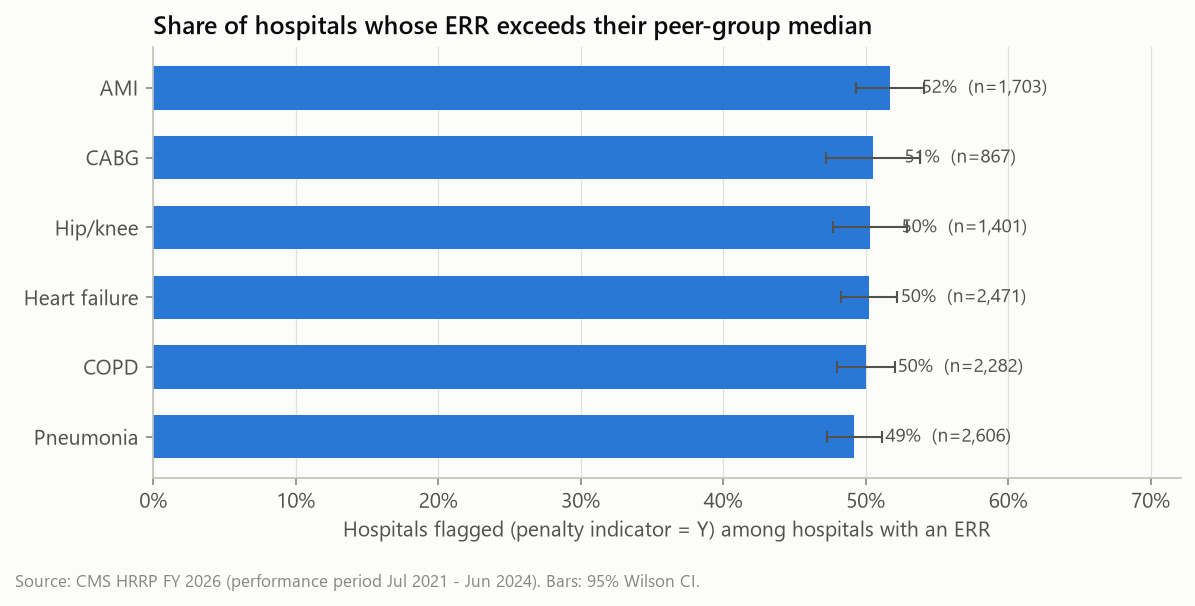
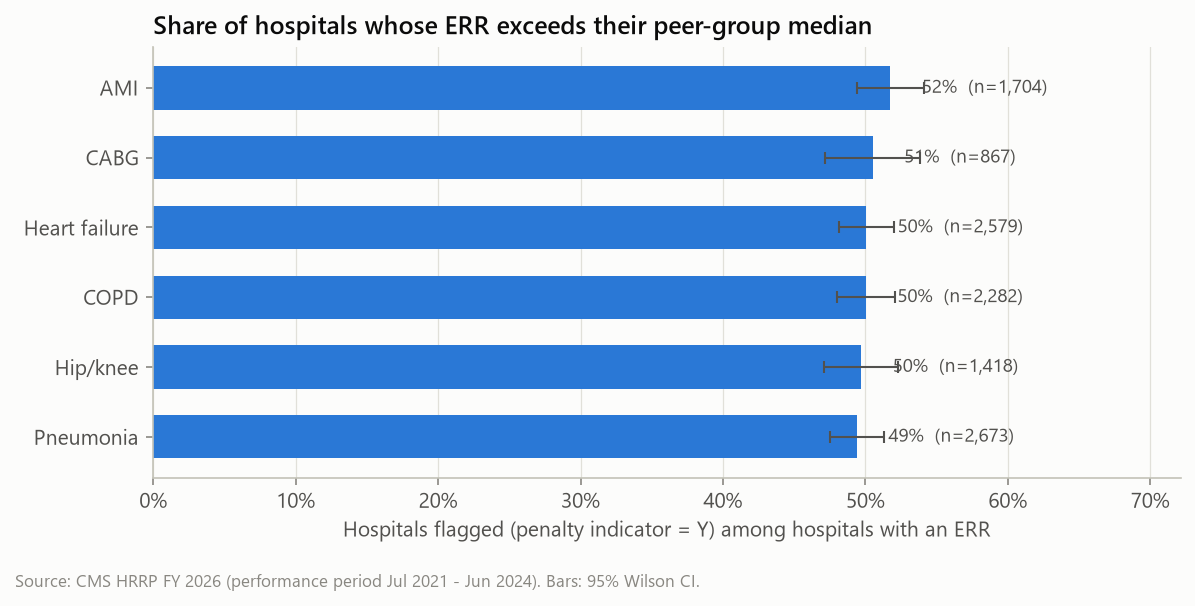
fix: parse thousands separators in HRRP supplemental discharge counts
193 eligible-discharge values such as "1,218" were converted to NaN,
dropping the largest hospitals from discharge-based metrics. Found by the
Oracle penalty_rule_consistency check. Notebook re-executed; conclusions
unchanged (sensitivity results and penalty rates re-verified).

- to_numeric strips "," before conversion (+ regression test)
- penalty-rule test now tolerates only exact 4-dp ties, not a % threshold
- docs: CMS missing token is literal "N/A"; footnote 29 has ERR values

diff --git a/tests/test_processed_data.py b/tests/test_processed_data.py
@@ -42,13 +42,18 @@ def test_analyzable_rows_have_err_and_excluded_do_not(processed_dir):
 
 
 def test_penalty_indicator_matches_cms_definition(processed_dir):
-    """CMS: Y iff eligible discharges >= 25 and ERR > peer-group median ERR."""
+    """CMS: Y iff eligible discharges >= 25 and ERR > peer-group median ERR.
+
+    The only tolerated disagreements are exact ties at 4 decimal places (CMS
+    compares unrounded values). A loose % threshold previously hid a parsing bug.
+    """
     mf = _load(processed_dir, "measure_fact")
     m = mf[mf.PENALTY_INDICATOR.isin(["Y", "N"]) & mf.EXCESS_READMISSION_RATIO.notna()
            & mf.PEER_GROUP_MEDIAN_ERR.notna()]
+    assert m["ELIGIBLE_DISCHARGES"].notna().all()
     rule = (m.ELIGIBLE_DISCHARGES >= 25) & (m.EXCESS_READMISSION_RATIO > m.PEER_GROUP_MEDIAN_ERR)
-    agreement = (rule == (m.PENALTY_INDICATOR == "Y")).mean()
-    assert agreement > 0.99, f"penalty rule agreement only {agreement:.4f}"
+    disagree = m[rule != (m.PENALTY_INDICATOR == "Y")]
+    assert (disagree.EXCESS_READMISSION_RATIO == disagree.PEER_GROUP_MEDIAN_ERR).all(), disagree.head()
 
 
 def test_payment_factor_and_reduction_pct_consistent(processed_dir):

diff --git a/src/data_cleaning.py b/src/data_cleaning.py
@@ -99,8 +99,9 @@ def standardize_columns(df: pd.DataFrame) -> pd.DataFrame:
 def to_numeric(series: pd.Series, missing_tokens: tuple[str, ...] = (".", "N/A", "Not Available",
                                                                     "Not Applicable")) -> pd.Series:
     """Convert to float. Known CMS missing tokens become NaN; anything else that
-    fails to parse also becomes NaN (callers flag such rows separately)."""
-    s = series.astype("string").str.strip().str.rstrip("%")
+    fails to parse also becomes NaN (callers flag such rows separately).
+    Thousands separators are removed: the Supplemental file writes "1,218"."""
+    s = series.astype("string").str.strip().str.rstrip("%").str.replace(",", "", regex=False)
     s = s.mask(s.isin(missing_tokens))
     return pd.to_numeric(s, errors="coerce").astype(float)
 

diff --git a/tests/test_data_cleaning.py b/tests/test_data_cleaning.py
@@ -28,9 +28,10 @@ def test_standardize_column_name():
 
 
 def test_to_numeric_handles_cms_tokens():
-    s = pd.Series(["1.5", ".", "N/A", "Not Available", "0.12%", None, "abc"])
+    s = pd.Series(["1.5", ".", "N/A", "Not Available", "0.12%", None, "abc", "1,218"])
     out = dc.to_numeric(s)
     assert out.iloc[0] == 1.5 and out.iloc[4] == 0.12
+    assert out.iloc[7] == 1218.0                      # thousands separator (Supplemental file)
     assert out.iloc[[1, 2, 3, 5, 6]].isna().all()
     assert out.dtype == float
 

diff --git a/docs/data_cleaning_decisions.md b/docs/data_cleaning_decisions.md
@@ -43,10 +43,11 @@ Provider Data ERR equals the Supplemental ERR in every case (tolerance 0.0001).
 | Malformed or missing CCN | Moved to `review_records.csv` with a reason | Never pad, guess or generate identifiers |
 | Federal IDs (`01014F`, VA/DoD) | Accepted as valid format | Legitimate CMS IDs; these facilities are not in HRRP anyway |
 | `Too Few to Report` readmissions | Value set to missing + `READMISSIONS_SUPPRESSED = True` | Suppressed is not zero |
-| Missing ERR (footnotes 1, 5, 7, 29) | `RECORD_STATUS = EXCLUDED_NO_ERR`; **not imputed** | ERR is hospital-specific and risk-adjusted; a national or state mean would fabricate performance |
+| Missing ERR (`N/A`; footnotes 1, 5, 7) | `RECORD_STATUS = EXCLUDED_NO_ERR`; **not imputed** | ERR is hospital-specific and risk-adjusted; a national or state mean would fabricate performance |
 | Out-of-range values or readmissions > discharges | `RECORD_STATUS = REVIEW` | None occurred in this release |
 | Duplicate hospital × measure × period | All copies moved to review | None occurred in this release |
 | CMS `.` / `N/A` / `Not Available` | Converted to missing | Documented CMS missing-value tokens |
+| Thousands separators (`"1,218"` in Supplemental) | Removed before numeric conversion | Found by the Oracle penalty-rule check: 193 values had become missing |
 | Supplemental footer row | Dropped | Not data |
 | Teaching status | Derived: `Resident to Bed Ratio > 0` → Teaching | No official yes/no field exists. This is a proxy. |
 | `IS_PENALIZED` (hospital level) | Derived: `Payment adjustment factor < 1.0` | Uses the official factor, not an invented flag |

diff --git a/docs/data_sources.md b/docs/data_sources.md
@@ -27,9 +27,9 @@ Measures: `READM-30-AMI-HRRP`, `READM-30-CABG-HRRP`, `READM-30-COPD-HRRP`, `READ
 `READM-30-HIP-KNEE-HRRP`, `READM-30-PN-HRRP`.
 
 Observed data issues:
-- `Excess Readmission Ratio` (ERR), predicted and expected rates are blank in 6,610 rows (footnotes 1, 5, 7, 29).
-- `Number of Readmissions` is `Too Few to Report` in 3,683 rows (suppressed; not zero).
-- `Number of Discharges` is blank in 10,088 rows (CMS suppresses it more often than ERR).
+- `Excess Readmission Ratio` (ERR), predicted and expected rates are `N/A` in 6,610 rows (footnotes 1, 5, 7; footnote 29 appears on rows that do have an ERR).
+- `Number of Readmissions` is `Too Few to Report` in 3,683 rows and `N/A` in 6,610 (suppressed; not zero).
+- `Number of Discharges` is `N/A` in 10,088 rows (CMS suppresses it more often than ERR).
 
 ## 2. FY 2026 HRRP Supplemental Data File (payment adjustment)
 
